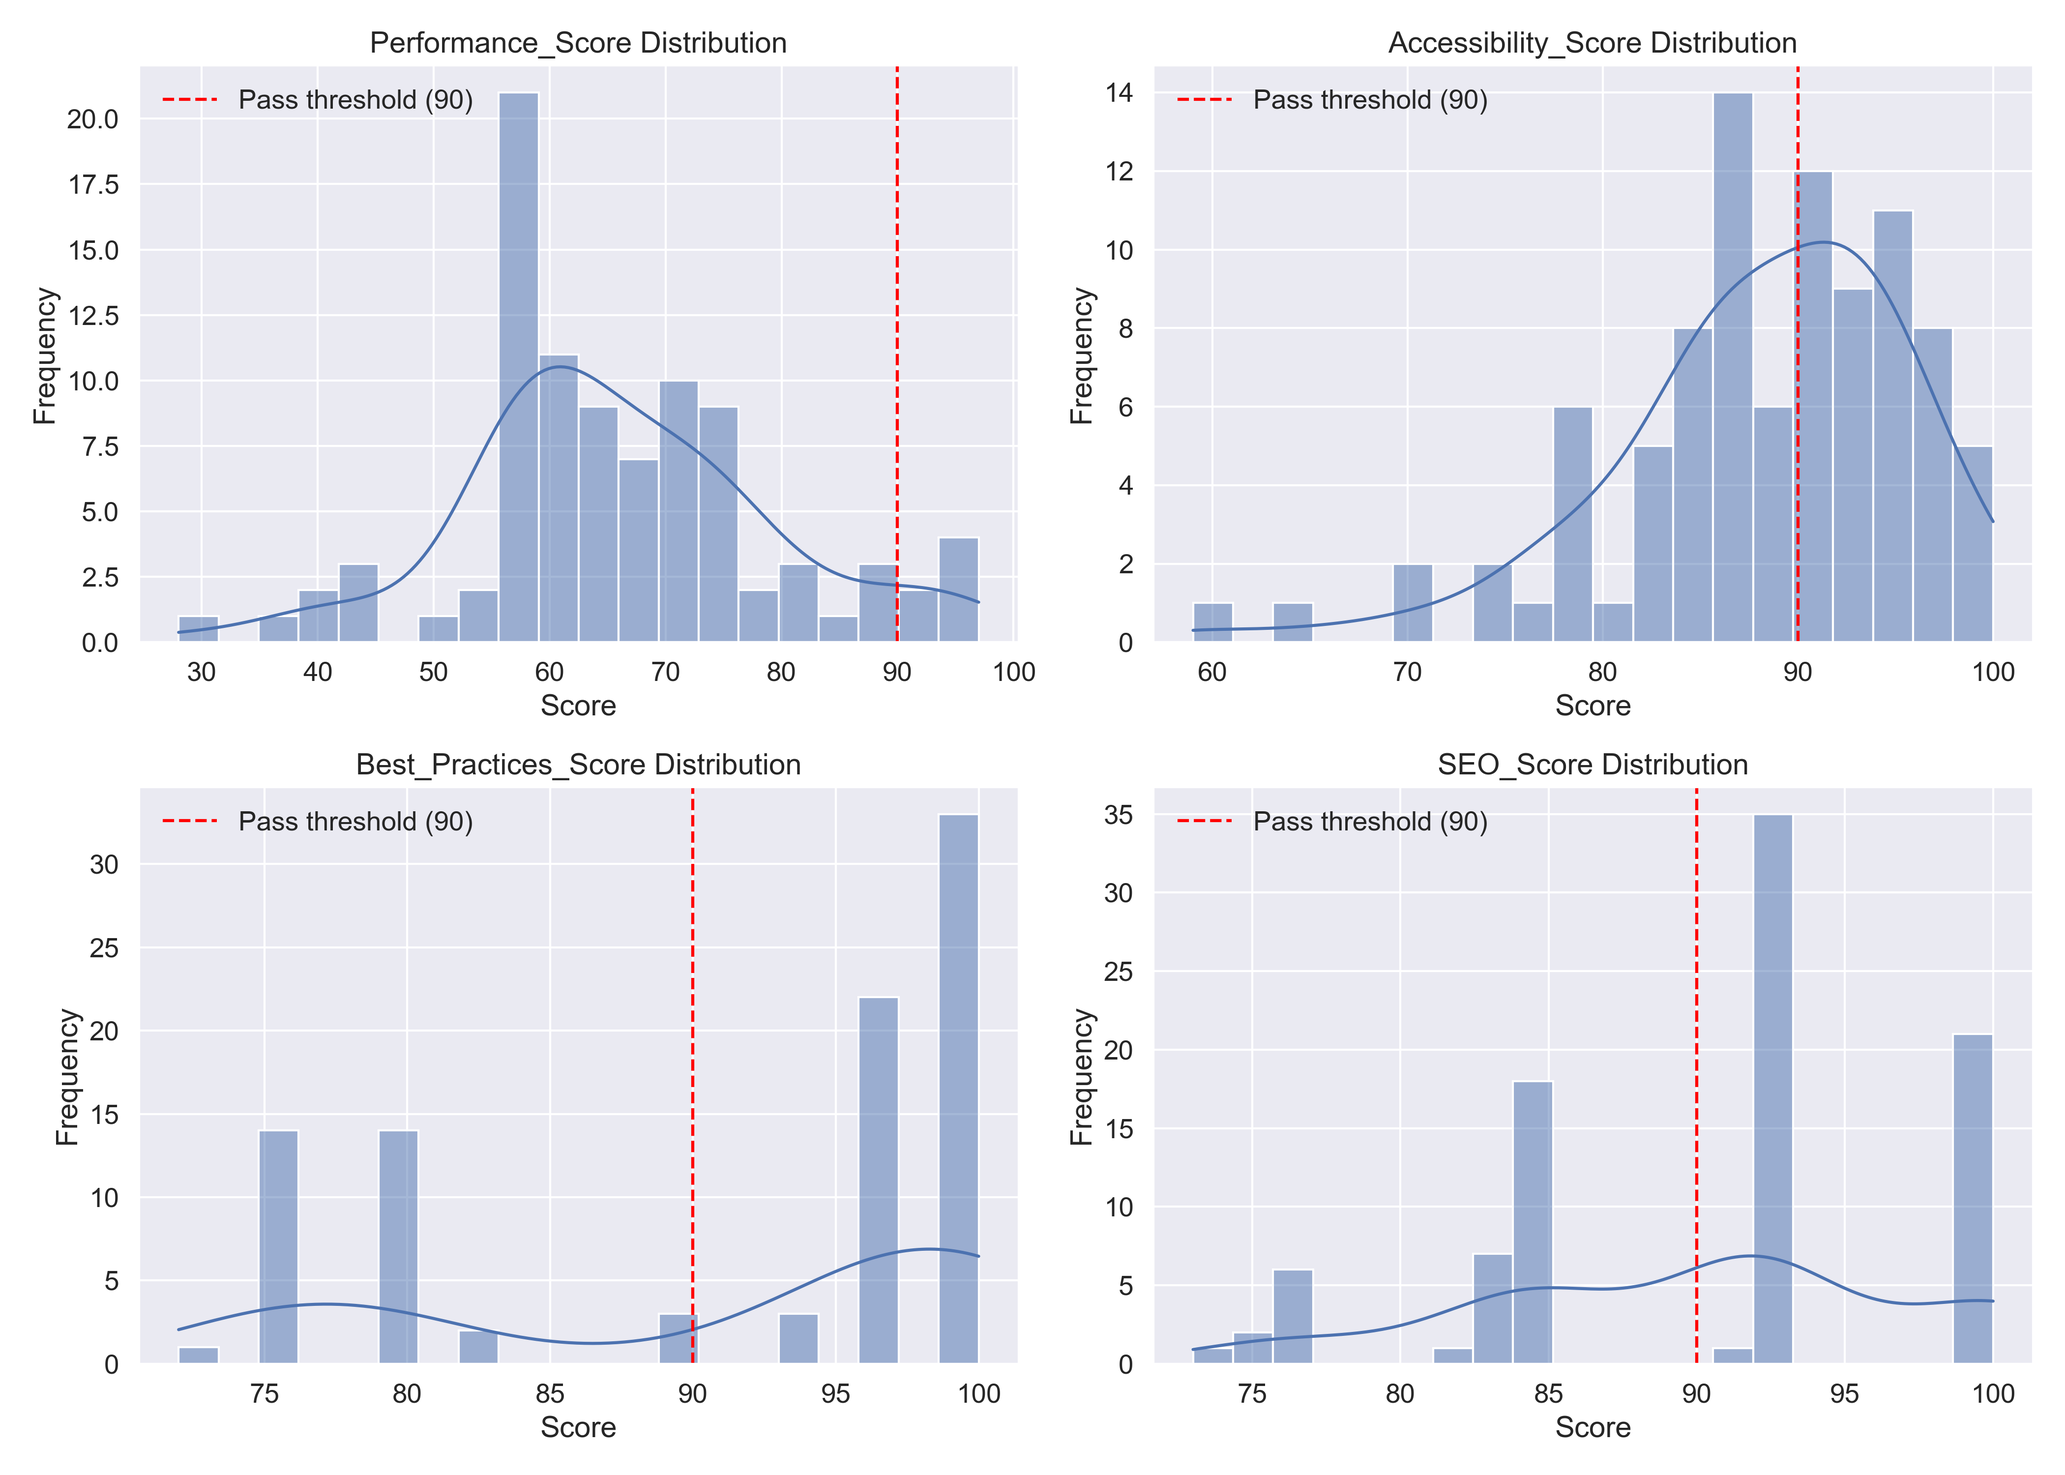
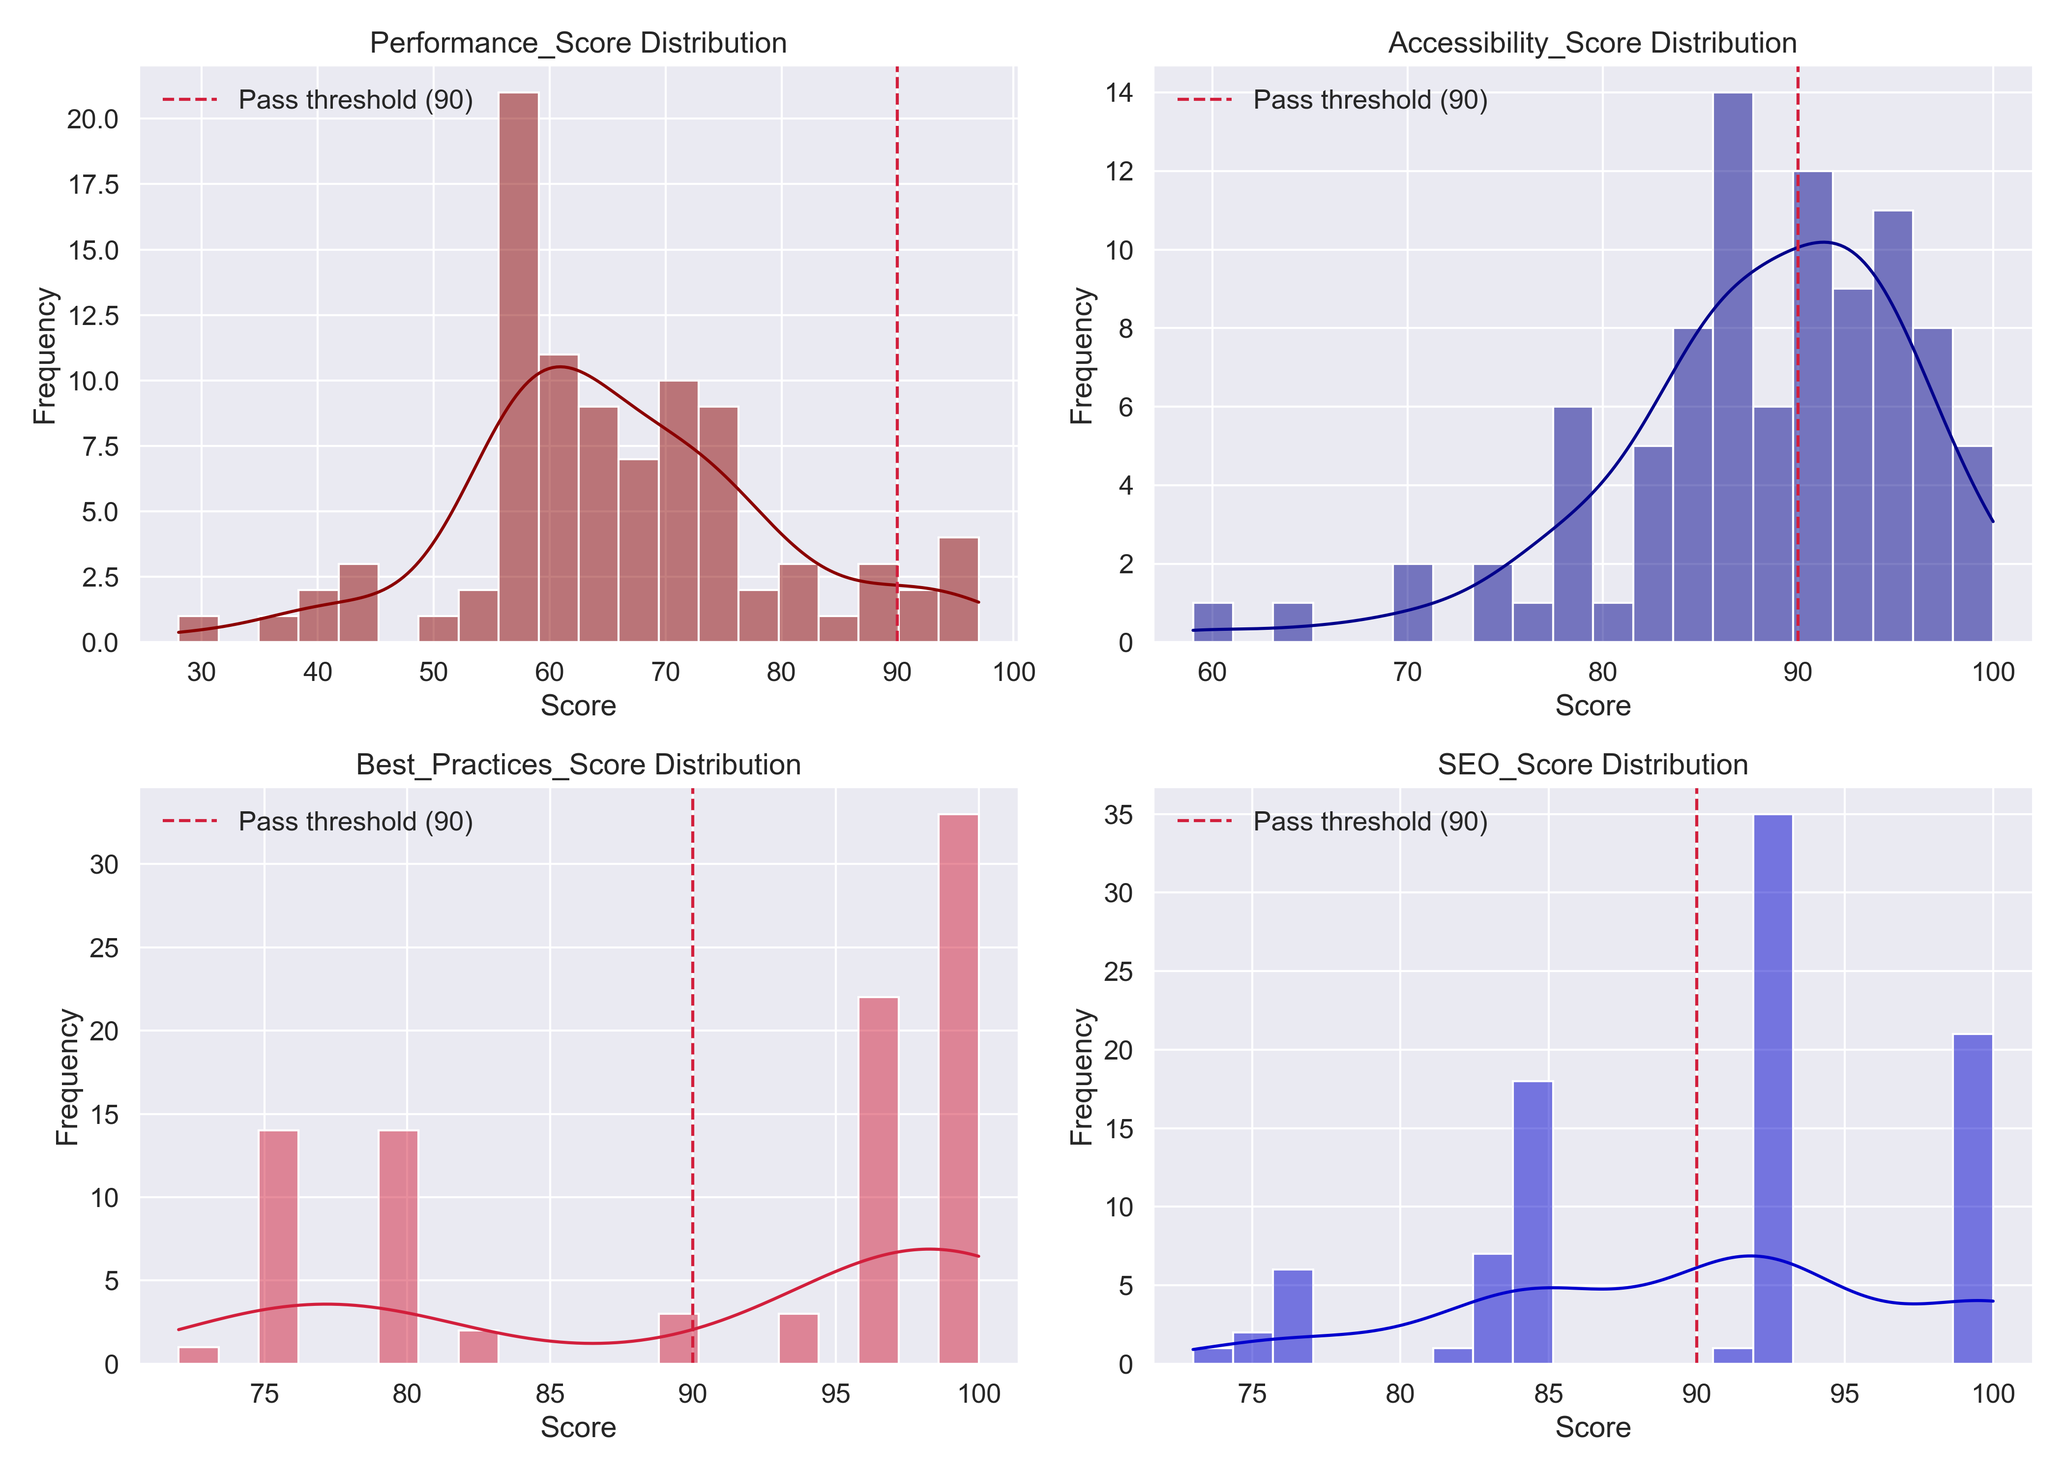
Update plotting style to red and dark blue colors, remove unnecessary visualizations

diff --git a/analytics_and_eda.py b/analytics_and_eda.py
@@ -6,12 +6,16 @@ from datetime import datetime
 import os
 import matplotlib.gridspec as gridspec
 
-# Set plot style and configuration
+# Set plot style and configuration with red and dark blue color palette
 plt.style.use('seaborn-v0_8-whitegrid')
 sns.set(font_scale=1.2)
 plt.rcParams['figure.figsize'] = (12, 8)
 plt.rcParams['figure.dpi'] = 100
 plt.rcParams['savefig.dpi'] = 300
+
+# Set custom color palette with red and dark blue
+red_blue_palette = ["#8B0000", "#00008B", "#D21F3C", "#0000CD", "#FF0000", "#0000FF"]
+sns.set_palette(red_blue_palette)
 
 # Create output directory for visualization
 output_dir = "final_accessibility_analysis"
@@ -57,8 +61,8 @@ def analyze_scores(df):
     
     for i, col in enumerate(score_cols):
         plt.subplot(2, 2, i+1)
-        sns.histplot(df[col].dropna(), kde=True, bins=20)
-        plt.axvline(x=90, color='red', linestyle='--', label='Pass threshold (90)')
+        sns.histplot(df[col].dropna(), kde=True, bins=20, color=red_blue_palette[i % len(red_blue_palette)])
+        plt.axvline(x=90, color='#D21F3C', linestyle='--', label='Pass threshold (90)')
         plt.title(f"{col} Distribution")
         plt.xlabel("Score")
         plt.ylabel("Frequency")
@@ -74,8 +78,9 @@ def analyze_scores(df):
     score_corr = df[score_cols].corr()
     mask = np.triu(np.ones_like(score_corr, dtype=bool))
     
+    # Use a red-blue colormap
     sns.heatmap(score_corr, annot=True, mask=mask, vmin=-1, vmax=1, 
-                cmap='coolwarm', fmt='.2f', linewidths=1)
+                cmap='RdBu_r', fmt='.2f', linewidths=1)
     
     plt.title("Score Correlations")
     plt.tight_layout()
@@ -164,19 +169,19 @@ def analyze_accessibility_issues(df):
         plt.figure(figsize=(14, 10))
         
         # Get data for plotting
-        issues = [issue for issue, _ in sorted_issues[:15]]  # Top 15 for visualization
-        counts = [count for _, count in sorted_issues[:15]]
+        issues = [issue for issue, _ in sorted_issues[:10]]  # Top 10 for visualization
+        counts = [count for _, count in sorted_issues[:10]]
         
         # Create horizontal bar chart
-        bars = plt.barh([issue[:50] + '...' if len(issue) > 50 else issue for issue in issues][::-1], 
-                        counts[::-1], color='coral')
+        bars = plt.barh([issue[:40] + '...' if len(issue) > 40 else issue for issue in issues][::-1], 
+                        counts[::-1], color='#8B0000')
         
         # Add count labels
         for bar in bars:
             width = bar.get_width()
             label_x_pos = width + 1
             plt.text(label_x_pos, bar.get_y() + bar.get_height()/2, str(int(width)),
-                    va='center')
+                    va='center', color='#00008B')
         
         plt.xlabel('Number of Occurrences')
         plt.title('Most Common Accessibility Issues')
@@ -192,7 +197,7 @@ def analyze_accessibility_issues(df):
         pass_counts = df['AccessibilityResult'].value_counts()
         
         plt.pie(pass_counts, labels=pass_counts.index, autopct='%1.1f%%', startangle=90,
-                colors=['#ff9999','#66b3ff'])
+                colors=['#8B0000','#00008B'])
         plt.title("Accessibility Pass/Fail Distribution")
         plt.axis('equal')
         
@@ -274,11 +279,11 @@ def analyze_keyboard_focus_accessibility(df):
         pass_rate_values = [pass_rates[col] for col in cols_to_plot]
         
         # Create horizontal bar chart
-        bars = plt.barh(col_names, pass_rate_values, color='skyblue')
+        bars = plt.barh(col_names, pass_rate_values, color='#00008B')
         
         for bar in bars:
             width = bar.get_width()
-            plt.text(width + 1, bar.get_y() + bar.get_height()/2, f"{width:.1f}%", va='center')
+            plt.text(width + 1, bar.get_y() + bar.get_height()/2, f"{width:.1f}%", va='center', color='#8B0000')
         
         plt.xlabel('Pass Rate (%)')
         plt.title('Keyboard Focus Accessibility Pass Rates')
@@ -322,19 +327,20 @@ def create_accessibility_dashboard(df):
     """Create a simplified dashboard with key accessibility insights"""
     print("\n===== CREATING ACCESSIBILITY DASHBOARD =====")
     
-    # Create figure with subplots
+    # Create figure with subplots - reduce to 2x2 grid
     fig = plt.figure(figsize=(16, 12))
-    gs = gridspec.GridSpec(3, 2, figure=fig)
+    gs = gridspec.GridSpec(2, 2, figure=fig)
     
     # 1. Score Distribution Plot
     ax_scores = fig.add_subplot(gs[0, 0])
     
     # Get score columns
     score_cols = [col for col in df.columns if 'Score' in col and col != 'AccessibilityResult']
-    for col in score_cols:
-        sns.kdeplot(df[col].dropna(), ax=ax_scores, label=col.replace('_Score', ''))
+    for i, col in enumerate(score_cols):
+        sns.kdeplot(df[col].dropna(), ax=ax_scores, label=col.replace('_Score', ''), 
+                   color=red_blue_palette[i % len(red_blue_palette)])
     
-    ax_scores.axvline(x=90, color='red', linestyle='--', label='Pass threshold (90)')
+    ax_scores.axvline(x=90, color='#D21F3C', linestyle='--', label='Pass threshold (90)')
     ax_scores.set_title('Score Distributions')
     ax_scores.set_xlabel('Score')
     ax_scores.set_ylabel('Density')
@@ -346,7 +352,7 @@ def create_accessibility_dashboard(df):
     if 'AccessibilityResult' in df.columns:
         pass_counts = df['AccessibilityResult'].value_counts()
         ax_pass_fail.pie(pass_counts, labels=pass_counts.index, autopct='%1.1f%%', startangle=90,
-                colors=['#ff9999','#66b3ff'])
+                colors=['#8B0000','#00008B'])
         ax_pass_fail.set_title('Accessibility Pass/Fail Distribution')
         ax_pass_fail.axis('equal')
     
@@ -379,55 +385,25 @@ def create_accessibility_dashboard(df):
         # Sort and plot top issues
         if issue_counts:
             sorted_issues = sorted(issue_counts.items(), key=lambda x: x[1], reverse=True)
-            top_issues = sorted_issues[:8]  # Top 8 issues
+            top_issues = sorted_issues[:5]  # Top 5 issues
             
             issues = [issue[:30] + '...' if len(issue) > 30 else issue for issue, _ in top_issues]
             counts = [count for _, count in top_issues]
             
-            bars = ax_issues.barh(issues[::-1], counts[::-1], color='coral')
+            bars = ax_issues.barh(issues[::-1], counts[::-1], color='#8B0000')
             
             # Add count labels
             for bar in bars:
                 width = bar.get_width()
                 label_x_pos = width + 1
                 ax_issues.text(label_x_pos, bar.get_y() + bar.get_height()/2, str(int(width)),
-                       va='center')
+                       va='center', color='#00008B')
             
             ax_issues.set_title('Most Common Accessibility Issues')
             ax_issues.set_xlabel('Number of Sites')
     
-    # 4. Keyboard Focus Testing
-    ax_keyboard = fig.add_subplot(gs[1, 1])
-    
-    # Find keyboard focus columns
-    keyboard_cols = [col for col in df.columns if 'keyboard' in col.lower() or 'focus' in col.lower()]
-    
-    if keyboard_cols:
-        # Count sites with keyboard data
-        df_focus = df.copy()
-        for col in keyboard_cols:
-            df_focus[col] = df_focus[col].fillna('Not Tested')
-        
-        has_keyboard_data = df_focus[keyboard_cols].apply(lambda x: x != 'Not Tested').any(axis=1)
-        sites_with_data = has_keyboard_data.sum()
-        sites_without_data = len(df) - sites_with_data
-        
-        # Create donut chart showing tested vs untested
-        data = [sites_with_data, sites_without_data]
-        labels = [f'Tested ({sites_with_data})', f'Not Tested ({sites_without_data})']
-        
-        # Create a donut chart
-        ax_keyboard.pie(data, labels=labels, autopct='%1.1f%%', startangle=90,
-               colors=['#66b3ff', '#d9d9d9'])
-        # Add a circle in the middle to create a donut
-        centre_circle = plt.Circle((0,0), 0.7, fc='white')
-        ax_keyboard.add_patch(centre_circle)
-        
-        ax_keyboard.set_title('Keyboard Focus Accessibility Testing Coverage')
-        ax_keyboard.axis('equal')
-    
-    # 5. Severity Distribution
-    ax_severity = fig.add_subplot(gs[2, :])
+    # 4. Severity Distribution
+    ax_severity = fig.add_subplot(gs[1, 1])
     
     # Extract severity information from keyboard focus column if available
     keyboard_focus_col = next((col for col in df.columns if 'keyboard' in col.lower() and 'focusable' in col.lower()), None)
@@ -453,7 +429,7 @@ def create_accessibility_dashboard(df):
         
         if non_zero:
             # Define colors for different severity levels
-            colors = {'High': '#FF5252', 'Medium': '#FFA726', 'Low': '#66BB6A', 'Unknown': '#E0E0E0'}
+            colors = {'High': '#8B0000', 'Medium': '#D21F3C', 'Low': '#00008B', 'Unknown': '#808080'}
             
             # Create horizontal bar chart
             severity_labels = list(non_zero.keys())
@@ -474,7 +450,7 @@ def create_accessibility_dashboard(df):
             for bar in bars:
                 width = bar.get_width()
                 ax_severity.text(width + 0.5, bar.get_y() + bar.get_height()/2, 
-                               str(int(width)), va='center')
+                               str(int(width)), va='center', color='#00008B')
             
             ax_severity.set_title('Accessibility Issues by Severity')
             ax_severity.set_xlabel('Number of Issues')
@@ -693,50 +669,31 @@ def analyze_severity_distribution(df):
             # Create a more detailed visualization
             plt.figure(figsize=(14, 10))
             
-            # Set up a 2x1 subplot grid
-            fig, (ax1, ax2) = plt.subplots(1, 2, figsize=(16, 8))
+            # Create a single figure with a pie chart
+            plt.figure(figsize=(12, 9))
             
-            # 1. Pie chart for severity distribution
-            colors = {'High': '#FF5252', 'Medium': '#FFA726', 'Low': '#66BB6A', 'Unknown': '#E0E0E0'}
+            # Define colors for severity levels using red and blue palette
+            colors = {'High': '#8B0000', 'Medium': '#D21F3C', 'Low': '#00008B', 'Unknown': '#808080'}
             sorted_data = sorted(severity_data.items(), 
-                              key=lambda x: {'High': 0, 'Medium': 1, 'Low': 2, 'Unknown': 3}.get(x[0], 4))
+                               key=lambda x: {'High': 0, 'Medium': 1, 'Low': 2, 'Unknown': 3}.get(x[0], 4))
             labels = [f"{k} ({v})" for k, v in sorted_data]
             sizes = [v for _, v in sorted_data]
             
             # Explode the high severity slice
             explode = [0.1 if k == 'High' else 0.05 if k == 'Medium' else 0 for k, _ in sorted_data]
             
-            ax1.pie(sizes, explode=explode, labels=labels, autopct='%1.1f%%', startangle=90,
+            plt.pie(sizes, explode=explode, labels=labels, autopct='%1.1f%%', startangle=90,
                    colors=[colors.get(k, '#BDBDBD') for k, _ in sorted_data], shadow=True)
-            ax1.axis('equal')
-            ax1.set_title('Keyboard Focus Issues by Severity', fontsize=14)
-            
-            # 2. Bar chart showing severity counts
-            bars = ax2.bar(
-                [k for k, _ in sorted_data],
-                [v for _, v in sorted_data],
-                color=[colors.get(k, '#BDBDBD') for k, _ in sorted_data]
-            )
-            
-            # Add count labels above bars
-            for bar in bars:
-                height = bar.get_height()
-                ax2.text(bar.get_x() + bar.get_width()/2., height + 0.1,
-                        f'{int(height)}', ha='center', va='bottom', fontsize=12)
-            
-            ax2.set_title('Severity Count Distribution', fontsize=14)
-            ax2.set_xlabel('Severity Level', fontsize=12)
-            ax2.set_ylabel('Number of Issues', fontsize=12)
-            ax2.grid(axis='y', alpha=0.3)
+            plt.axis('equal')
+            plt.title('Keyboard Focus Issues by Severity', fontsize=16)
             
             # Improve overall appearance
-            plt.suptitle('Accessibility Issue Severity Analysis', fontsize=16, y=0.98)
-            plt.tight_layout(rect=[0, 0, 1, 0.95])
+            plt.tight_layout()
             
             # Save the plot
             file_path = os.path.join(output_dir, "severity_distribution.png")
             plt.savefig(file_path, dpi=300, bbox_inches='tight')
-            print(f"Saved detailed severity distribution to {file_path}")
+            print(f"Saved severity distribution to {file_path}")
             
             return severity_data
     
@@ -750,52 +707,6 @@ def analyze_severity_distribution(df):
                 if isinstance(val, str) and ('severity' in val.lower() or 'high' in val.lower() or 'medium' in val.lower()):
                     # Found severity info in this column
                     return analyze_embedded_severity(df, col)
-    
-    # If we didn't find embedded severity, look for explicit severity columns
-    potential_severity_cols = []
-    for col in df.columns:
-        col_lower = col.lower()
-        if ('severity' in col_lower or 
-            'impact' in col_lower or 
-            'priority' in col_lower or
-            ('issue' in col_lower and ('type' in col_lower or 'level' in col_lower))):
-            potential_severity_cols.append(col)
-    
-    if potential_severity_cols:
-        severity_col = potential_severity_cols[0]  # Use the first one
-        print(f"\nAnalyzing severity from column: {severity_col}")
-        
-        if df[severity_col].dtype == 'object':
-            # If it's a string column, count by category
-            severity_counts = df[severity_col].value_counts()
-            
-            # Print counts
-            print("\nSeverity Distribution:")
-            for severity, count in severity_counts.items():
-                percent = count / severity_counts.sum() * 100
-                print(f"- {severity}: {count} issues ({percent:.1f}%)")
-            
-            # Create a visualization of the severity distribution
-            plt.figure(figsize=(12, 8))
-            
-            # Create bar chart
-            ax = severity_counts.plot(kind='bar', color='skyblue')
-            plt.title('Issue Severity Distribution')
-            plt.xlabel('Severity')
-            plt.ylabel('Count')
-            
-            # Add value labels
-            for i, v in enumerate(severity_counts):
-                ax.text(i, v + 0.1, str(v), ha='center')
-            
-            plt.tight_layout()
-            
-            # Save visualization
-            file_path = os.path.join(output_dir, "severity_distribution.png")
-            plt.savefig(file_path)
-            print(f"Saved severity distribution to {file_path}")
-            
-            return severity_counts.to_dict()
     
     # If we couldn't find severity information, create a proxy from accessibility score
     print("\nNo explicit severity information found. Creating a proxy visualization using Accessibility Score.")
@@ -819,7 +730,7 @@ def analyze_severity_distribution(df):
         plt.figure(figsize=(12, 8))
         
         # Create bar chart with custom colors
-        colors = ['crimson', 'orange', 'gold', 'lightgreen']
+        colors = ['#8B0000', '#D21F3C', '#0000CD', '#00008B']
         ax = severity_counts.plot(kind='bar', color=colors[:len(severity_counts)])
         plt.title('Sites by Accessibility Severity Level (Based on Score)')
         plt.xlabel('Severity Level')
@@ -874,8 +785,8 @@ def analyze_embedded_severity(df, column):
         # Create a visualization of the severity distribution
         plt.figure(figsize=(12, 8))
         
-        # Create pie chart
-        colors = {'High': 'crimson', 'Medium': 'orange', 'Low': 'lightgreen', 'Unknown': 'lightgray'}
+        # Create pie chart with red and blue color scheme
+        colors = {'High': '#8B0000', 'Medium': '#D21F3C', 'Low': '#00008B', 'Unknown': '#808080'}
         
         # Filter out zero counts to avoid empty slices
         non_zero_counts = {k: v for k, v in severity_counts.items() if v > 0}
